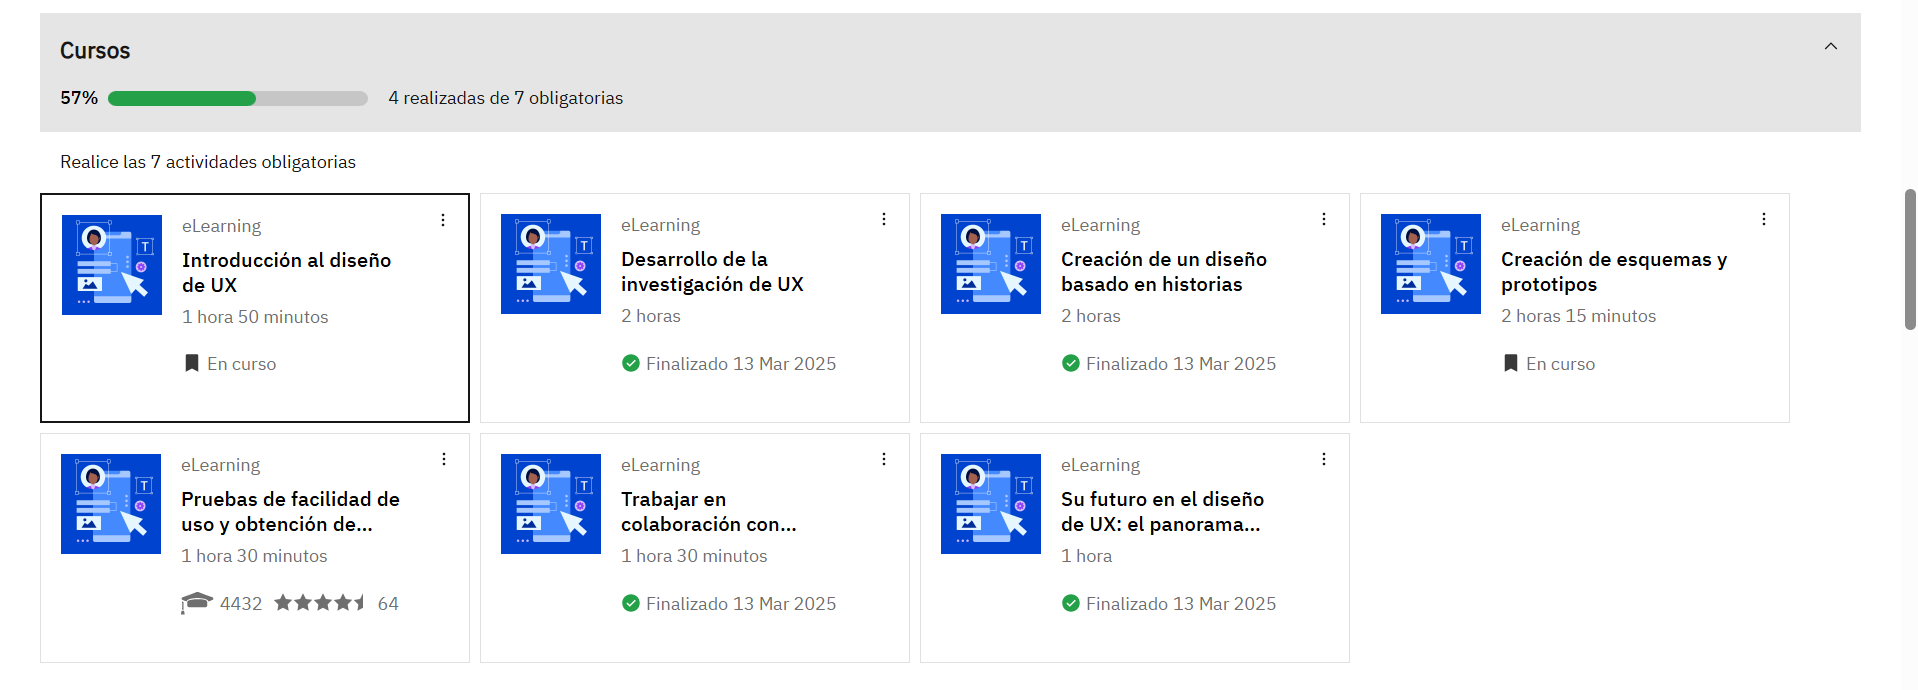
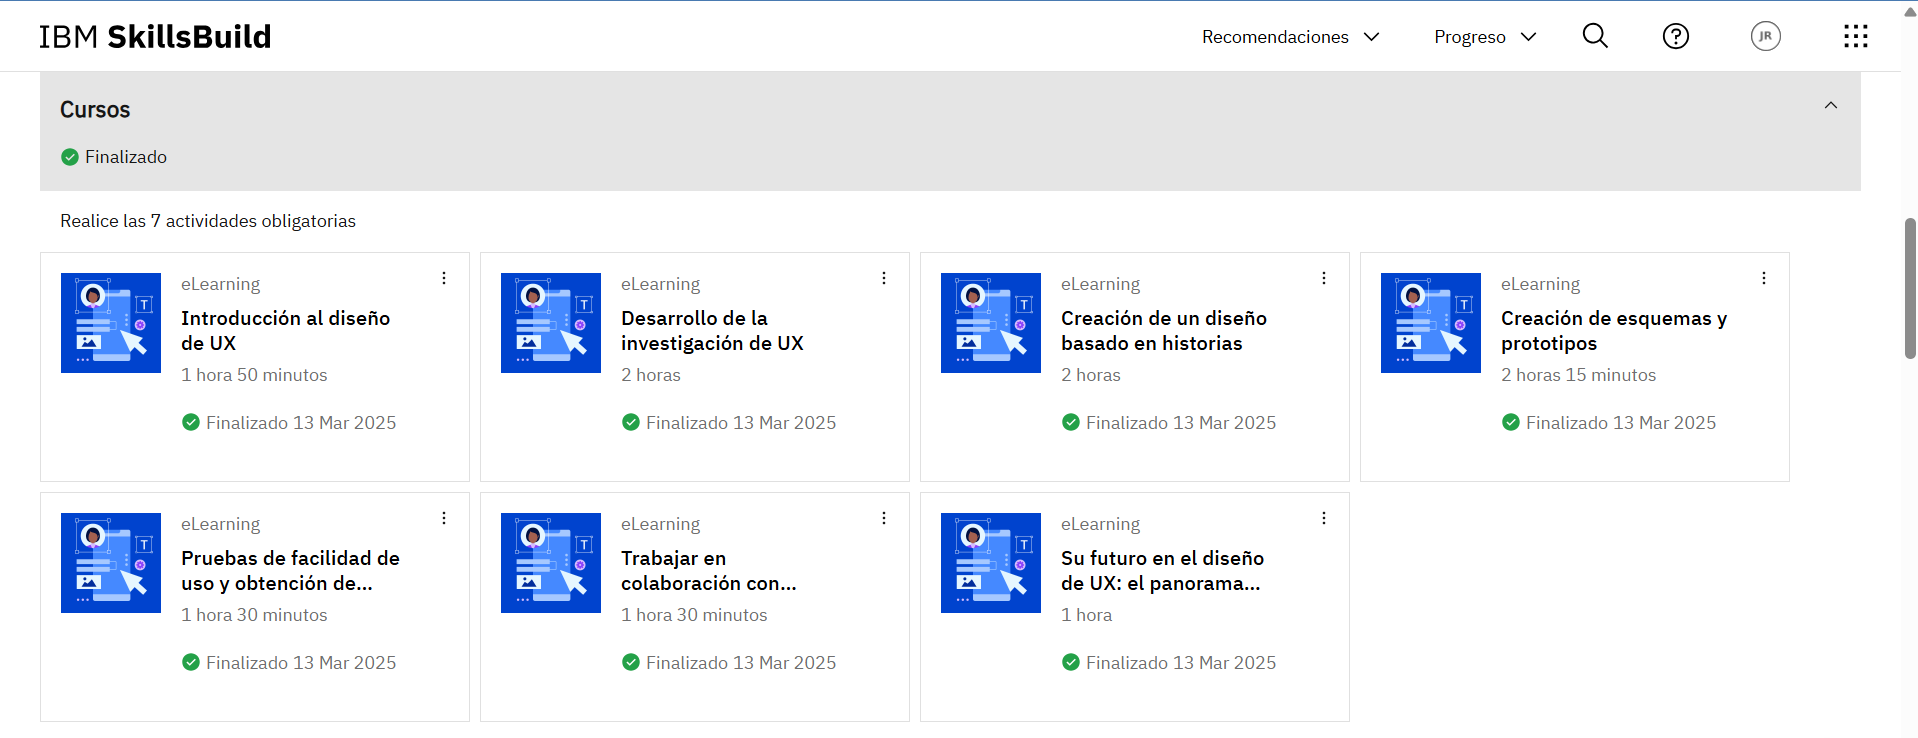
Added certificate for Creating schematics and prototypes - Module 4

diff --git a/01-user-experience-design/evidencia.md b/01-user-experience-design/evidencia.md
@@ -6,6 +6,9 @@
 ## Cursos
 ![evidencia](Cursos.png)
 
+## Certificado
+![evidencia](certificado.png)
+
 ## Módulos
 
 ### 01. Introducción al diseño de UX
@@ -17,6 +20,11 @@
 ![evidencia](Desarrollo_de_la_investigación_de_UX.png)
 #### Este curso te enseñará por qué la investigación es clave para diseñar experiencias centradas en el usuario. Aprenderás distintos métodos y técnicas de UX, cómo crear usuarios prototipo basados en datos reales y la importancia de analizar a la competencia para mejorar un producto. Además, explorarás un caso práctico donde se aplicaron estos conceptos en un proyecto real.
 
+
 ### 03. Creación de un diseño basado en historias
 ![evidencia](Creación_de_un_diseño_basado_en_historias.png)
 #### En este curso, aprenderás cómo las historias de usuario ayudan a entender mejor a los usuarios y a diseñar soluciones efectivas, explorando un caso práctico en un sitio web de venta de plantas.
+
+
+### 04. Creación de esquemas y prototipos
+![evidencia](Creación_de_esquemas_y_prototipos.png)
